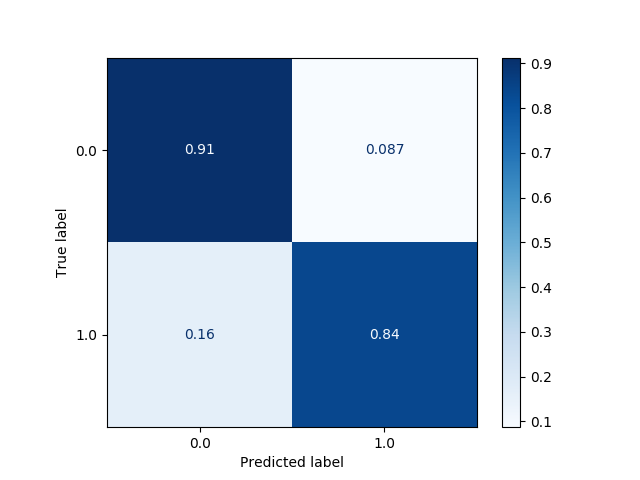
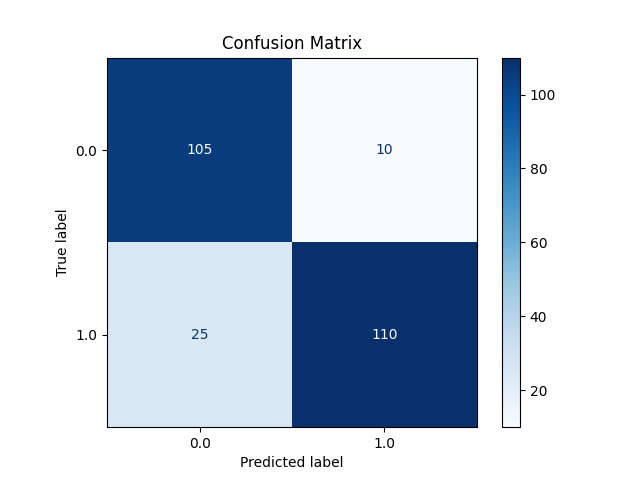
modif de codigo

diff --git a/train.py b/train.py
@@ -21,15 +21,16 @@ clf.fit(X_train, y_train)
 acc = clf.score(X_test, y_test)
 print(acc)
 
-metrics = """
-Accuracy: {:10.4f}
-
-![Confusion Matrix](plot.png)
-""".format(acc)
+# Save metrics to a text file
+metrics = f"Accuracy: {acc:10.4f}\n"
 with open("metrics.txt", "w") as outfile:
     outfile.write(metrics)
 
+# Generate and save confusion matrix plot
 predictions = clf.predict(X_test)
 cm = confusion_matrix(y_test, predictions, labels=clf.classes_)
 disp = ConfusionMatrixDisplay(confusion_matrix=cm, display_labels=clf.classes_)
+disp.plot(cmap=plt.cm.Blues, values_format=".4g")  # Display the confusion matrix
+plt.title("Confusion Matrix")
 plt.savefig("plot.png")
+plt.show()  # Show the plot before saving
